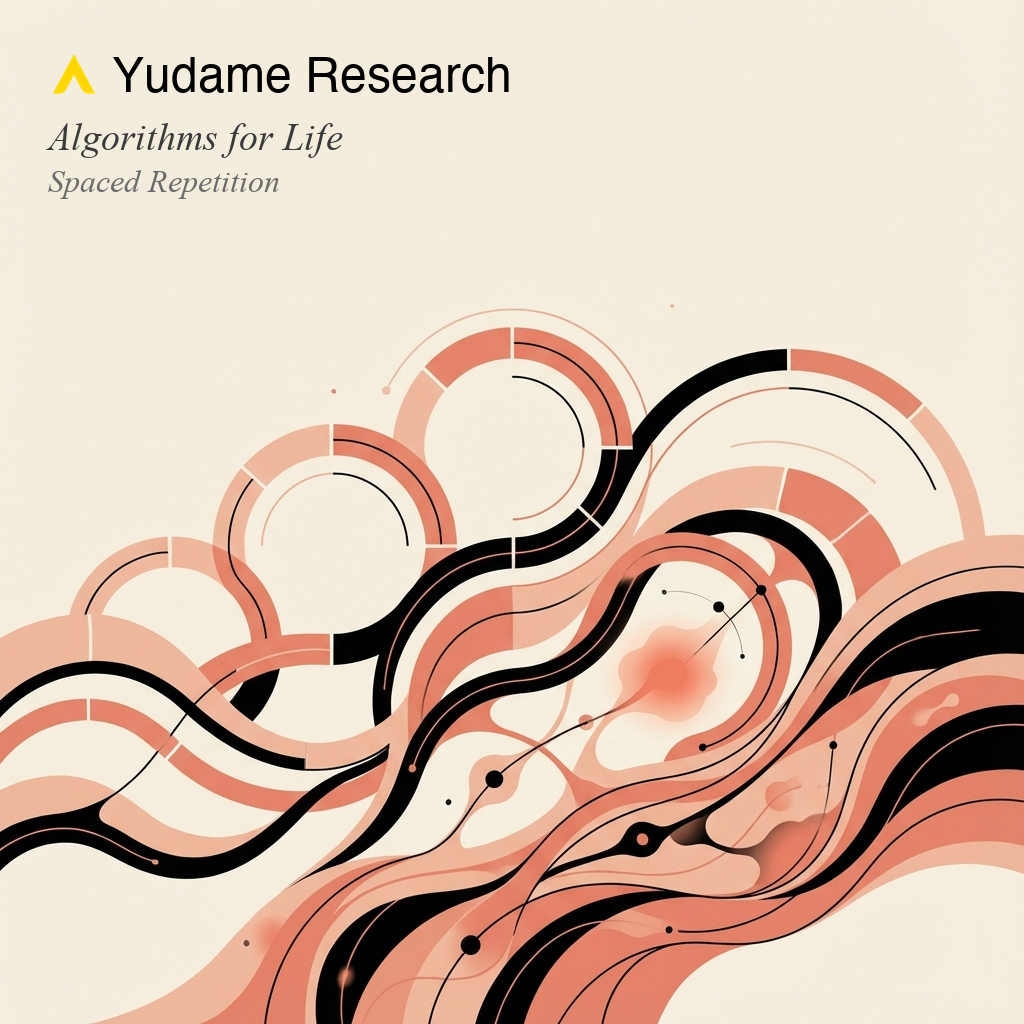
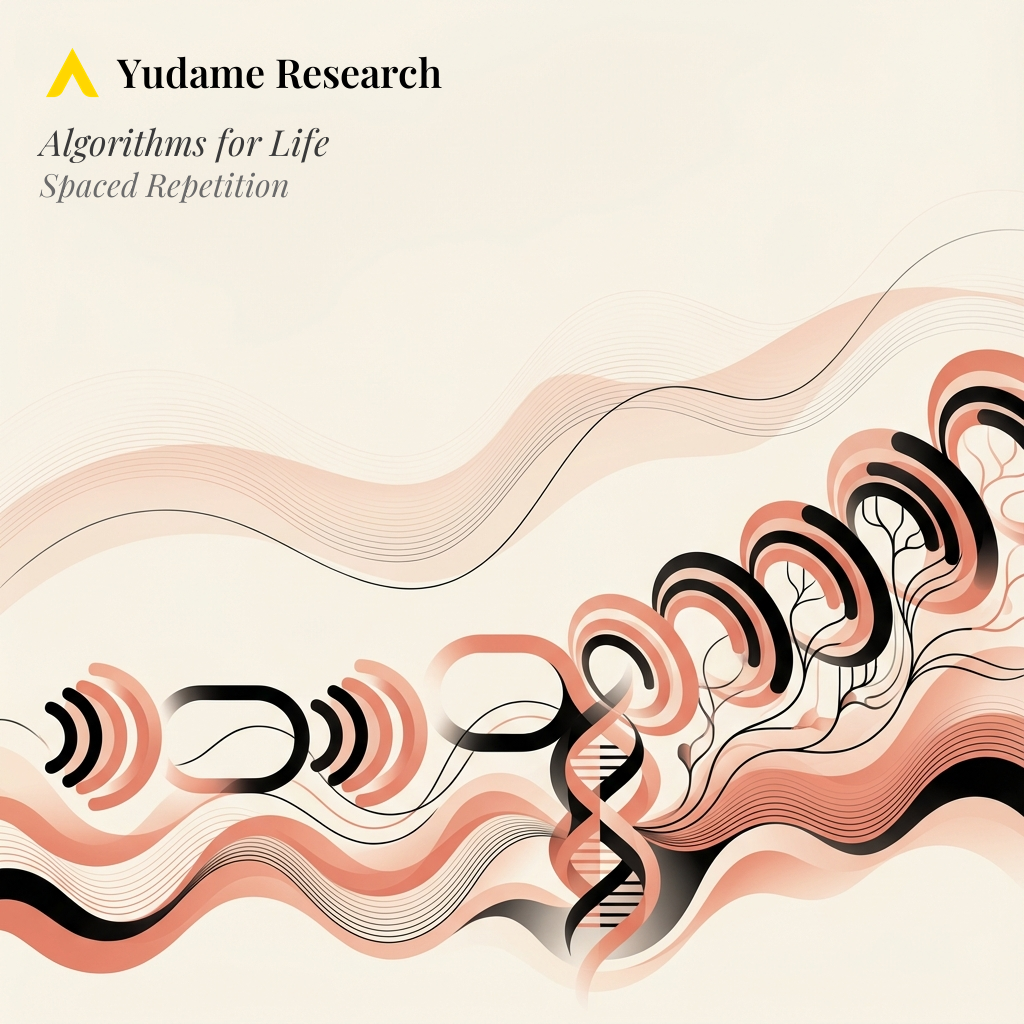
feat: Update cover art branding with website header style
- Logo 1.6x larger, vertically centered with brand text
- Typography: Playfair Display SemiBold (brand), Italic (series/episode)
- Auto-detect background brightness for text color
- Add --check-fonts flag to verify font installation
- Update SKILL.md with new workflow and font check step
- Regenerate Spaced Repetition episode cover with new style

🤖 Generated with [Claude Code](https://claude.com/claude-code)

diff --git a/podcast/tools/add_logo_watermark.py b/podcast/tools/add_logo_watermark.py
@@ -81,6 +81,90 @@ def load_font(font_paths, size, fallback_paths=None):
     return ImageFont.load_default()
 
 
+# Font paths used by branding
+PLAYFAIR_SEMIBOLD_PATHS = [
+    "~/Library/Fonts/playfair-display-v40-latin-600.ttf",
+    "/Library/Fonts/playfair-display-v40-latin-600.ttf",
+    "~/Library/Fonts/PlayfairDisplay-SemiBold.ttf",
+    "/Library/Fonts/PlayfairDisplay-SemiBold.ttf",
+]
+PLAYFAIR_ITALIC_PATHS = [
+    "~/Library/Fonts/playfair-display-v40-latin-italic.ttf",
+    "/Library/Fonts/playfair-display-v40-latin-italic.ttf",
+    "~/Library/Fonts/PlayfairDisplay-Italic.ttf",
+    "/Library/Fonts/PlayfairDisplay-Italic.ttf",
+]
+
+
+def check_fonts():
+    """
+    Check if required Playfair Display fonts are installed.
+    Returns True if all fonts are available, False otherwise.
+    """
+    print("Checking required fonts...\n")
+
+    results = []
+
+    # Check Playfair Display SemiBold (600)
+    semibold_found = False
+    for path in PLAYFAIR_SEMIBOLD_PATHS:
+        try:
+            font = ImageFont.truetype(Path(path).expanduser(), 48)
+            name = font.getname()
+            print(f"✓ Playfair Display SemiBold")
+            print(f"  Path: {path}")
+            print(f"  Font: {name[0]} {name[1]}")
+            semibold_found = True
+            break
+        except:
+            continue
+
+    if not semibold_found:
+        print("✗ Playfair Display SemiBold - NOT FOUND")
+        print("  Searched paths:")
+        for path in PLAYFAIR_SEMIBOLD_PATHS:
+            print(f"    - {path}")
+    results.append(("Playfair Display SemiBold", semibold_found))
+
+    print()
+
+    # Check Playfair Display Italic
+    italic_found = False
+    for path in PLAYFAIR_ITALIC_PATHS:
+        try:
+            font = ImageFont.truetype(Path(path).expanduser(), 48)
+            name = font.getname()
+            print(f"✓ Playfair Display Italic")
+            print(f"  Path: {path}")
+            print(f"  Font: {name[0]} {name[1]}")
+            italic_found = True
+            break
+        except:
+            continue
+
+    if not italic_found:
+        print("✗ Playfair Display Italic - NOT FOUND")
+        print("  Searched paths:")
+        for path in PLAYFAIR_ITALIC_PATHS:
+            print(f"    - {path}")
+    results.append(("Playfair Display Italic", italic_found))
+
+    print()
+
+    # Summary
+    all_found = all(r[1] for r in results)
+    if all_found:
+        print("✓ All required fonts are installed!")
+    else:
+        print("✗ Some fonts are missing. Install with:")
+        print()
+        print("  mkdir -p ~/Library/Fonts && cd ~/Library/Fonts")
+        print('  curl -L -o playfair.zip "https://gwfh.mranftl.com/api/fonts/playfair-display?download=zip&subsets=latin&variants=600,italic"')
+        print("  unzip -o playfair.zip")
+
+    return all_found
+
+
 def add_branding(cover_path, series_text=None, episode_text=None,
                  show_logo=True, logo_path=None, verbose=True, log_file=None):
     """
@@ -128,35 +212,20 @@ def add_branding(cover_path, series_text=None, episode_text=None,
         text_tertiary = (180, 180, 180)
         use_shadow = True
 
-    # Typography sizing (based on design spec, scaled to image)
-    # For 1024px image: brand ~48px, series ~36px, episode ~32px
-    brand_size = int(width * 0.047)    # ~48px at 1024
-    series_size = int(width * 0.038)   # ~39px at 1024
-    episode_size = int(width * 0.032)  # ~33px at 1024
+    # Typography sizing (matching website header proportions)
+    # Logo is larger, text sized independently
+    logo_size = int(width * 0.064)     # ~66px at 1024 - 1.6x larger
+    brand_size = int(width * 0.04)     # ~41px at 1024 - keep text size as is
+    series_size = int(brand_size * 0.9)
+    episode_size = int(brand_size * 0.8)
 
     # Spacing (8px base from design spec, scaled)
     base_unit = width / 128  # 8px at 1024
-    padding = int(base_unit * 6)  # 48px at 1024
-    line_gap = int(base_unit * 1.5)  # 12px at 1024
-    section_gap = int(base_unit * 2)  # 16px at 1024
+    padding = int(base_unit * 5)  # 40px at 1024
+    line_gap = int(base_unit * 1)  # 8px at 1024
+    section_gap = int(base_unit * 1.5)  # 12px at 1024
 
-    # Load fonts
-    # Brand: Playfair Display SemiBold (like header/main cover)
-    playfair_semibold_paths = [
-        "/System/Library/Fonts/Supplemental/PlayfairDisplay-SemiBold.ttf",
-        "/Library/Fonts/PlayfairDisplay-SemiBold.ttf",
-        "~/Library/Fonts/PlayfairDisplay-SemiBold.ttf",
-        "/System/Library/Fonts/Supplemental/PlayfairDisplay-Bold.ttf",
-        "/Library/Fonts/PlayfairDisplay-Bold.ttf",
-    ]
-    # Series/Episode: Playfair Display Italic (like tagline on main cover)
-    playfair_italic_paths = [
-        "/System/Library/Fonts/Supplemental/PlayfairDisplay-Italic.ttf",
-        "/Library/Fonts/PlayfairDisplay-Italic.ttf",
-        "~/Library/Fonts/PlayfairDisplay-Italic.ttf",
-        "/System/Library/Fonts/Supplemental/PlayfairDisplay-MediumItalic.ttf",
-        "/Library/Fonts/PlayfairDisplay-MediumItalic.ttf",
-    ]
+    # Load fonts (using module-level constants)
     fallback_paths = [
         "/System/Library/Fonts/Helvetica.ttc",
         "/System/Library/Fonts/Supplemental/Arial.ttf",
@@ -166,9 +235,9 @@ def add_branding(cover_path, series_text=None, episode_text=None,
         "/System/Library/Fonts/Times.ttc",
     ]
 
-    brand_font = load_font(playfair_semibold_paths, brand_size, fallback_paths)
-    series_font = load_font(playfair_italic_paths, series_size, fallback_italic_paths + fallback_paths)
-    episode_font = load_font(playfair_italic_paths, episode_size, fallback_italic_paths + fallback_paths)
+    brand_font = load_font(PLAYFAIR_SEMIBOLD_PATHS, brand_size, fallback_paths)
+    series_font = load_font(PLAYFAIR_ITALIC_PATHS, series_size, fallback_italic_paths + fallback_paths)
+    episode_font = load_font(PLAYFAIR_ITALIC_PATHS, episode_size, fallback_italic_paths + fallback_paths)
 
     # Create drawing context
     img = cover.convert('RGBA')
@@ -180,7 +249,7 @@ def add_branding(cover_path, series_text=None, episode_text=None,
 
     # Draw logo + brand name (like header)
     brand_text = "Yudame Research"
-    logo_height_target = int(brand_size * 1.1)  # Logo slightly taller than text
+    logo_height_target = logo_size  # Logo is the anchor, text sized relative to it
 
     # Load and place logo if available
     if show_logo and logo_path:
@@ -197,11 +266,13 @@ def add_branding(cover_path, series_text=None, episode_text=None,
             img.paste(logo_img, (current_x, current_y), logo_img)
             current_x += logo_w + int(base_unit * 1.5)  # Gap after logo
 
-    # Draw brand text
+    # Draw brand text - vertically centered with logo
     brand_bbox = draw.textbbox((0, 0), brand_text, font=brand_font)
     brand_text_height = brand_bbox[3] - brand_bbox[1]
-    # Vertically center text with logo
-    brand_y = current_y + (logo_height_target - brand_text_height) // 2
+    # Center text with logo, accounting for font metrics (top of bbox is offset from origin)
+    logo_center_y = current_y + logo_height_target // 2
+    text_center_offset = brand_text_height // 2 + brand_bbox[1]  # Account for bbox top offset
+    brand_y = logo_center_y - text_center_offset
 
     if use_shadow:
         shadow_offset = max(2, int(base_unit * 0.25))
@@ -251,17 +322,29 @@ def main():
 Examples:
     python add_logo_watermark.py cover.png --series "Algorithms for Life" --episode "Spaced Repetition"
     python add_logo_watermark.py cover.png --episode "Standalone Episode" --no-logo
+    python add_logo_watermark.py --check-fonts
         """
     )
-    parser.add_argument("cover", help="Path to cover image")
+    parser.add_argument("cover", nargs="?", help="Path to cover image")
     parser.add_argument("--series", help="Series name (e.g., 'Algorithms for Life')")
     parser.add_argument("--episode", help="Episode title (e.g., 'Spaced Repetition')")
     parser.add_argument("--logo", help="Path to logo (default: ../yudame-logo.png)")
     parser.add_argument("--no-logo", action="store_true", help="Don't add logo")
     parser.add_argument("--log-dir", help="Directory for log files")
     parser.add_argument("--quiet", "-q", action="store_true", help="Minimal output")
+    parser.add_argument("--check-fonts", action="store_true", help="Check if required fonts are installed")
 
     args = parser.parse_args()
+
+    # Handle --check-fonts
+    if args.check_fonts:
+        success = check_fonts()
+        return 0 if success else 1
+
+    # Require cover path for branding operations
+    if not args.cover:
+        parser.error("cover path is required (or use --check-fonts)")
+        return 1
 
     # Default logo path
     if not args.logo and not args.no_logo:

diff --git a/.claude/skills/podcast-cover-art/SKILL.md b/.claude/skills/podcast-cover-art/SKILL.md
@@ -1,6 +1,6 @@
 ---
 name: podcast-cover-art
-description: Generate podcast cover art with AI and apply branding. Uses Gemini via OpenRouter for image generation, then adds Yudame Research logo, series/episode text, and salmon border (#E8B4A8). Use after report.md is complete and before audio processing. Requires OPENROUTER_API_KEY.
+description: Generate podcast cover art with AI and apply branding. Uses Gemini via OpenRouter for image generation with light cream backgrounds, then adds Yudame Research logo and series/episode text using Playfair Display typography. Use after report.md is complete and before audio processing. Requires OPENROUTER_API_KEY.
 ---
 
 # Podcast Cover Art Generation
@@ -77,7 +77,7 @@ python generate_cover.py ../episodes/EPISODE_PATH --auto \
 **generate_cover.py features:**
 - Uses OpenRouter API with Google Gemini 3 Pro Image model (requires OPENROUTER_API_KEY environment variable)
 - Auto-generates prompts by analyzing report.md content
-- Automatically enforces dark navy/blue color theme throughout the image
+- Automatically enforces light cream (#F5F1E8) background with salmon (#E8B4A8) and black accents
 - Automatically blocks unwanted text, icons, logos, and annotations
 - Supports multiple aspect ratios: 1:1, 16:9, 9:16, 4:3, 3:4, 3:2, 2:3, 21:9
 - Outputs to `cover.png` in the episode directory
@@ -95,42 +95,31 @@ cd ~/src/research/podcast/tools
 
 # Basic usage - for series episodes
 python add_logo_watermark.py ../episodes/EPISODE_PATH/cover.png \
-  --position top-left \
-  --brand "Yudame Research" \
   --series "SERIES_NAME" \
-  --episode "EPISODE_TEXT" \
-  --border 20
+  --episode "EPISODE_TEXT"
 
 # With organized logging (recommended for production)
 python add_logo_watermark.py ../episodes/EPISODE_PATH/cover.png \
-  --position top-left \
-  --brand "Yudame Research" \
   --series "SERIES_NAME" \
   --episode "EPISODE_TEXT" \
-  --border 20 \
   --log-dir ../episodes/EPISODE_PATH/logs \
   --quiet
 
 # For standalone episodes (no series text)
 python add_logo_watermark.py ../episodes/EPISODE_PATH/cover.png \
-  --position top-left \
-  --brand "Yudame Research" \
   --episode "EPISODE_TEXT" \
-  --border 20 \
   --log-dir ../episodes/EPISODE_PATH/logs \
   --quiet
 ```
 
 **add_logo_watermark.py features:**
-- Adds Yudame logo (from `podcast/yudame-logo.png`) to specified position
-- Adds text overlays: brand name (Playfair Display font), series/episode info (Inter font)
-- Brand text uses serif font matching design spec headlines
-- Series/episode text uses sans-serif font matching design spec body text
+- Auto-detects background brightness (light/dark) and adjusts text color accordingly
+- Adds Yudame logo (from `podcast/yudame-logo.png`) inline with brand name
+- Logo and "Yudame Research" vertically centered, matching website header style
+- Typography: Playfair Display SemiBold (brand), Playfair Display Italic (series/episode)
 - Series text is optional - omit `--series` for standalone episodes
-- Adds salmon border (#E8B4A8) matching brand accent color
-- Recommended border width: 20px (15-25px range)
 - Logo positioned top-left with brand text beside it
-- Series/episode text positioned below logo with proper margin
+- Series/episode text positioned below with proper spacing
 - With `--log-dir`: Saves metadata JSON and timestamped log file
 - `--quiet`: Suppresses progress messages
 - Replaces original cover.png with branded version
@@ -152,11 +141,10 @@ Update the episode's `prompts.md` file with the cover art generation details:
 ```
 
 **Branding Applied:**
-- Position: top-left
-- Brand: Yudame Research (Playfair Display font)
-- Series: [Series name if applicable] (Inter font)
-- Episode: [Episode text] (Inter font)
-- Border: 20px, #E8B4A8 (salmon)
+- Logo: Yudame logo (top-left, vertically centered with brand text)
+- Brand: Yudame Research (Playfair Display SemiBold)
+- Series: [Series name if applicable] (Playfair Display Italic)
+- Episode: [Episode text] (Playfair Display Italic)
 
 **Date:** YYYY-MM-DD
 ```
@@ -164,12 +152,29 @@ Update the episode's `prompts.md` file with the cover art generation details:
 ## Cover Art Specifications
 
 - Base size: 1024x1024px (or custom aspect ratio)
-- With 20px border: 1064x1064px total (for 1:1)
-- Color scheme: Rich dark backgrounds with salmon (#E8B4A8) and cream (#F5F1E8) accents
-- Border color: Salmon (#E8B4A8) - matches brand accent
-- Typography: Playfair Display (brand), Inter (series/episode)
-- File size: ~500KB PNG format
+- Color scheme: Light cream (#F5F1E8) background with salmon (#E8B4A8) and black (#000000) accents
+- Typography: Playfair Display SemiBold (brand), Playfair Display Italic (series/episode)
+- Text color: Auto-detected based on background brightness (black on light, white on dark)
+- File size: ~500KB-1MB PNG format
 - Clean abstract visualization without text from AI
+
+## Font Check
+
+Before applying branding, verify required fonts are installed:
+
+```bash
+cd ~/src/research/podcast/tools
+python add_logo_watermark.py --check-fonts
+```
+
+Expected output:
+```
+✓ Playfair Display SemiBold
+✓ Playfair Display Italic
+✓ All required fonts are installed!
+```
+
+If fonts are missing, the script will show installation instructions.
 
 ## First-Time Setup (if needed)
 
@@ -177,8 +182,19 @@ If the user hasn't set up cover art generation tools yet:
 
 ```bash
 cd ~/src/research/podcast/tools
-pip install requests  # Only dependency needed
+pip install requests pillow  # Required dependencies
+
+# Set API key
 export OPENROUTER_API_KEY='your-api-key'  # Add to ~/.zshrc or ~/.bashrc
+
+# Install Playfair Display fonts (required for branding)
+mkdir -p ~/Library/Fonts && cd ~/Library/Fonts
+curl -L -o playfair.zip "https://gwfh.mranftl.com/api/fonts/playfair-display?download=zip&subsets=latin&variants=600,italic"
+unzip -o playfair.zip
+
+# Verify fonts installed correctly
+cd ~/src/research/podcast/tools
+python add_logo_watermark.py --check-fonts
 ```
 
 ## Cost Information
